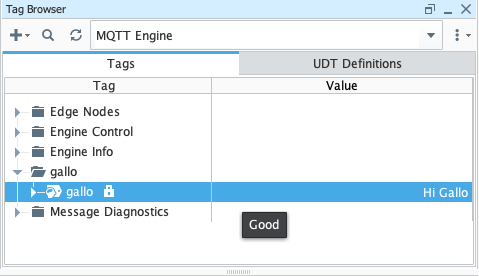
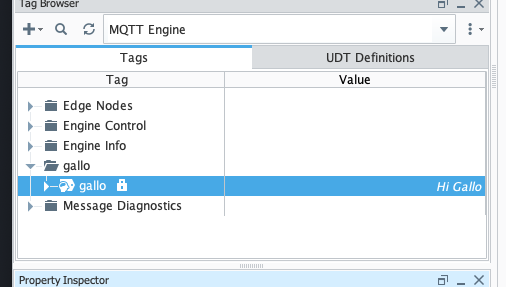
updated output image

diff --git a/README.md b/README.md
@@ -76,7 +76,9 @@ tag with the message value.
 
     mosquitto_pub -h localhost -p 1884 -t gallo -m "Hi Gallo"
 
-Result of sending a message to the topic: 
+
+Go to the Designer and see that the value for the tag `gallo` was changed to the message `Hi Gallo`. That's the 
+message sent to the MQTT topic.
 
 ![Output](images/output.png)
 
